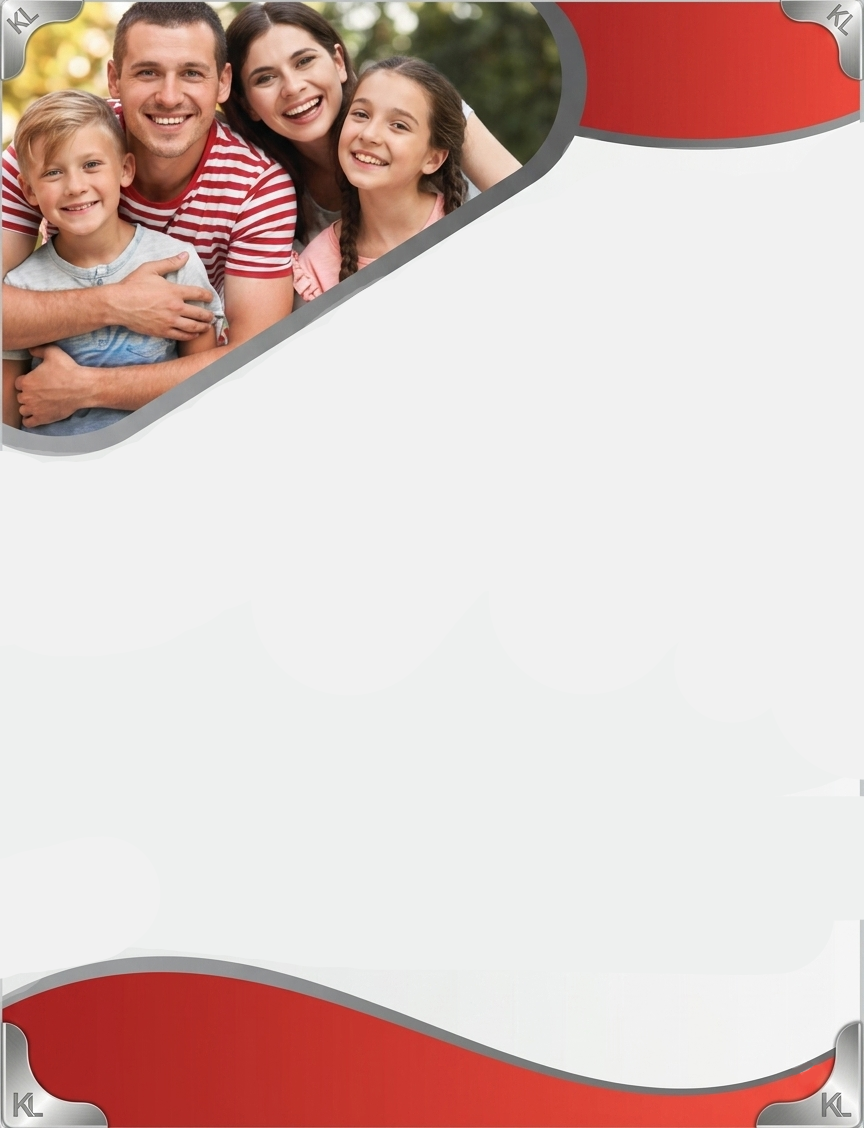
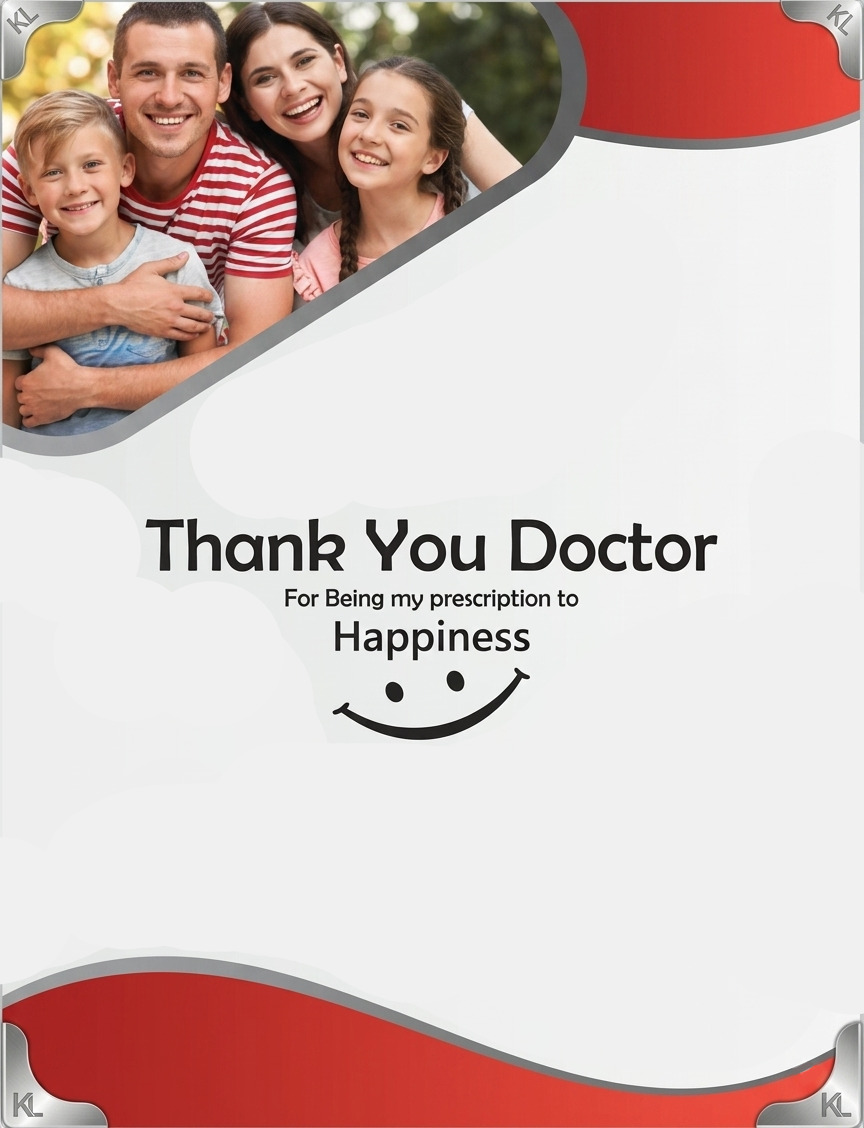
more changes

diff --git a/src/templates/kl-lab/template1/pages/Page2.tsx b/src/templates/kl-lab/template1/pages/Page2.tsx
@@ -285,8 +285,8 @@ export const Page2: React.FC = () => {
       <Animated.View
         style={{
           position: "absolute",
-          left: bL + bW * 0.02,
-          top: bT + bH * 0.2,
+          left: bL + bW * 0.0,
+          top: bT + bH * 0.22,
           width: bW * 0.46,
           opacity: l1Op,
           transform: [{ translateY: l1Y }],
@@ -296,6 +296,7 @@ export const Page2: React.FC = () => {
           style={{
             fontFamily: SANS,
             fontSize: fLeftMd,
+            fontWeight: "700",
             color: DARK,
             textAlign: "center",
             lineHeight: fLeftMd * 1.4,
@@ -310,7 +311,7 @@ export const Page2: React.FC = () => {
         style={{
           position: "absolute",
           left: bL + bW * 0.02,
-          top: bT + bH * 0.2 + fLeftMd * 1.4,
+          top: bT + bH * 0.21 + fLeftMd * 1.4,
           width: bW * 0.46,
           opacity: l2Op,
           transform: [{ translateY: l2Y }],
@@ -319,7 +320,7 @@ export const Page2: React.FC = () => {
         <Text
           style={{
             fontFamily: SANS,
-            fontSize: fLeftLg,
+            fontSize: fLeftMd,
             fontWeight: "700",
             color: DARK,
             textAlign: "center",
@@ -334,20 +335,22 @@ export const Page2: React.FC = () => {
       <Animated.View
         style={{
           position: "absolute",
-          left: bL + bW * 0.02,
-          top: bT + bH * 0.2 + fLeftMd * 1.4 + fLeftLg * 1.4,
+          left: bL + bW * 0.1,
+          top: bT + bH * 0.21 + fLeftMd * 1.4 + fLeftLg * 1.4,
           width: bW * 0.46,
           opacity: l3Op,
           transform: [{ translateY: l3Y }],
         }}
       >
+        {/* fLeftLg */}
         <Text
           style={{
             fontFamily: SANS,
             fontSize: fLeftMd,
+            fontWeight: "700",
             color: DARK,
             textAlign: "center",
-            lineHeight: fLeftMd * 1.4,
+            lineHeight: fLeftMd * 1,
           }}
         >
           Diabetes and Hypertension...

diff --git a/src/templates/kl-lab/template1/pages/Page3.tsx b/src/templates/kl-lab/template1/pages/Page3.tsx
@@ -198,7 +198,7 @@ export const Page3: React.FC = () => {
   const fTag1 = bW * 0.03;
   const fTag2 = bW * 0.034;
 
-  const womanW = bW * 0.32;
+  const womanW = bW * 0.36;
   const womanH = bH * 0.5;
 
   return (
@@ -223,11 +223,11 @@ export const Page3: React.FC = () => {
       <Animated.View
         style={{
           position: "absolute",
-          left: bL + bW * 0.02,
-          top: bT + bH * 0.18,
+          left: bL + bW * 0.10,
+          top: bT + bH * 0.25,
           width: womanW,
           height: womanH,
-          borderRadius: 12,
+          borderRadius: 96,
           overflow: "hidden",
           opacity: womanOp,
           transform: [{ scale: womanSc }],

diff --git a/src/templates/kl-lab/template1/pages/Page4.tsx b/src/templates/kl-lab/template1/pages/Page4.tsx
@@ -193,7 +193,7 @@ export const Page4: React.FC = () => {
   const fRx = bW * 0.02;
   const fTm = bW * 0.016;
   const fComp = bW * 0.015;
-  const fIngT = bW * 0.012;
+  const fIngT = bW * 0.014;
   const fTune = bW * 0.034;
 
   const womanW = bW * 0.34;
@@ -492,9 +492,9 @@ export const Page4: React.FC = () => {
               fontFamily: SANS,
               fontSize: fIngT,
               color: item.pink ? PINK_TEXT : DARK,
-              fontWeight: "600",
+              fontWeight: "800",
               lineHeight: fIngT * 1.8,
-              marginBottom: bH * 0.012,
+              marginBottom: bH * 0.020,
             }}
           >
             {"• "}
